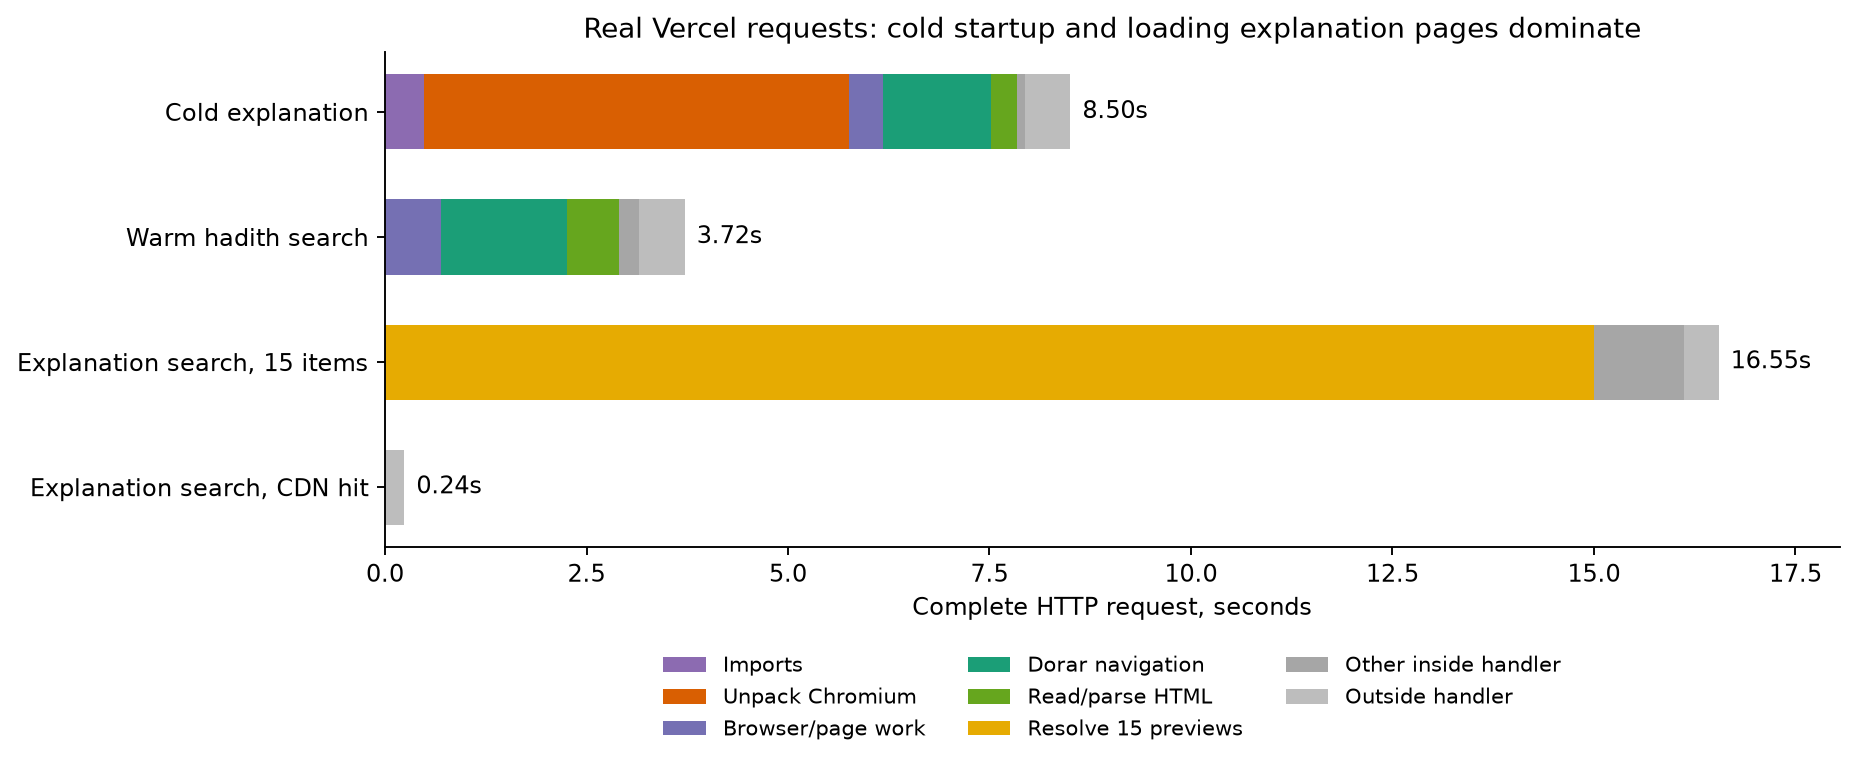
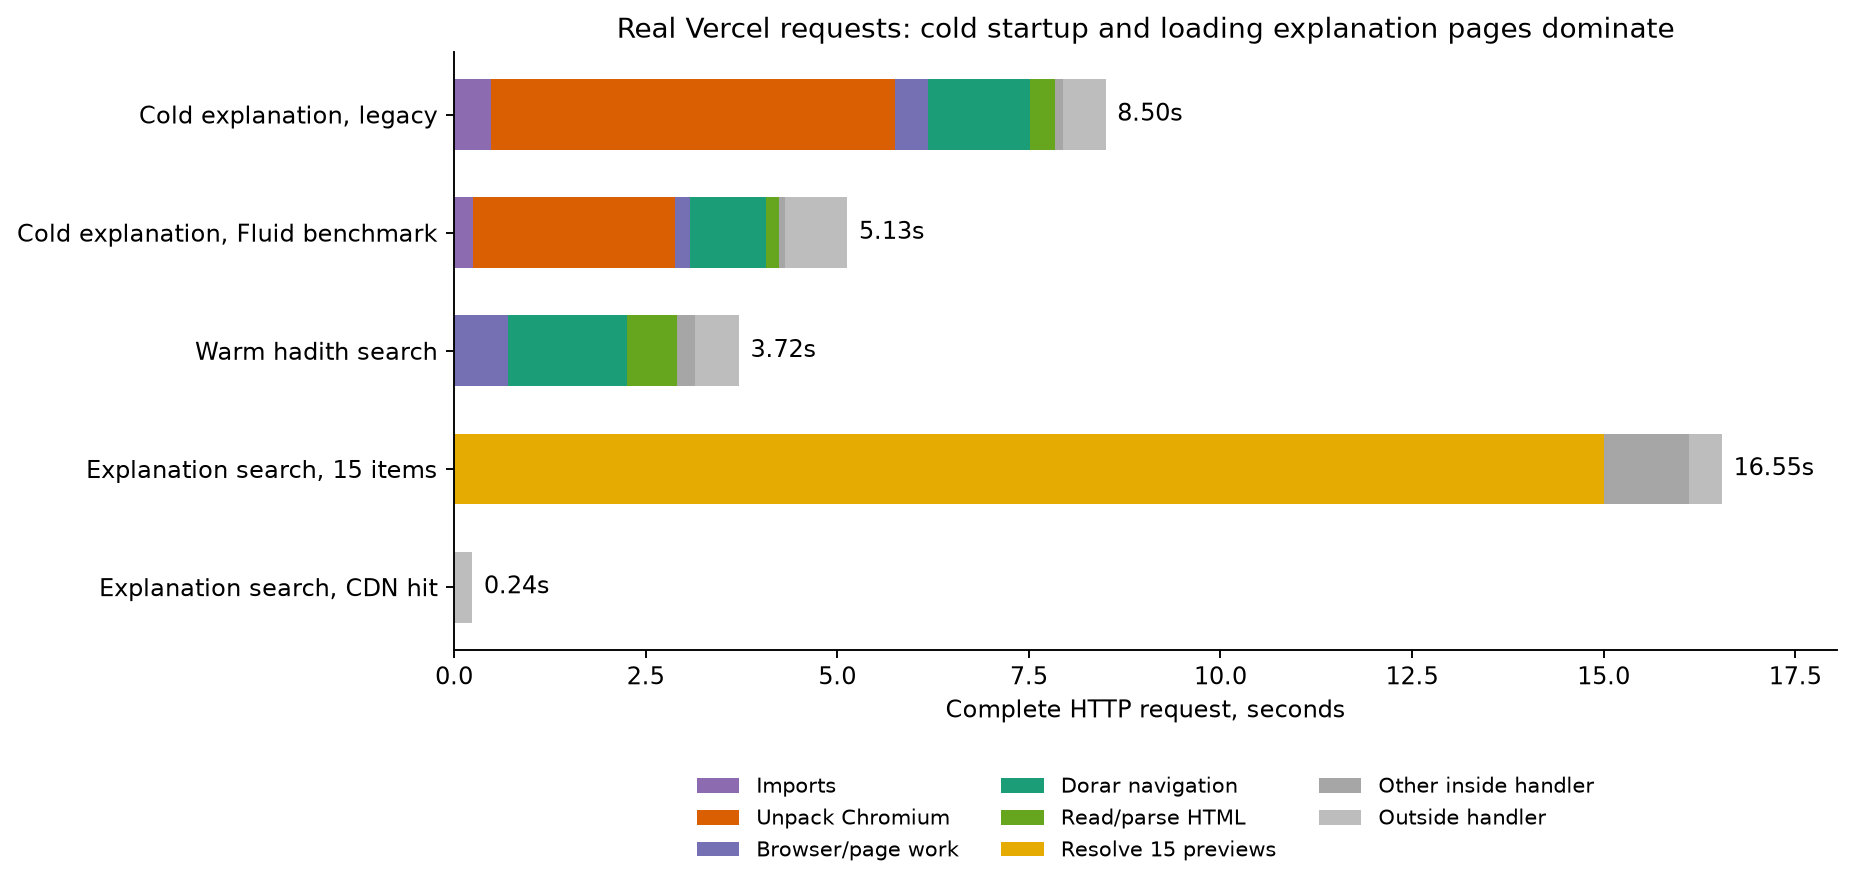
docs(perf): plot Fluid startup stages and record final verification

diff --git a/scripts/plot-request-duration.py b/scripts/plot-request-duration.py
@@ -10,7 +10,11 @@ data = json.loads((folder / 'measurements.json').read_text())
 rows = data['http-after-sharh-layout-fix']['results']
 selected = [next(r for r in rows if r['name'] == name) for name in
             ['first explanation', 'search fresh', 'sharh search fresh', 'sharh search CDN']]
-labels = ['Cold explanation', 'Warm hadith search', 'Explanation search, 15 items', 'Explanation search, CDN hit']
+labels = ['Cold explanation, legacy', 'Warm hadith search', 'Explanation search, 15 items', 'Explanation search, CDN hit']
+fluid = data['fluid-preview']
+cold = fluid['coldService']['result']
+selected.insert(1, {'wire': fluid['coldWire'], 'stages': cold['stages'] + [{'name': 'server', 'ms': cold['responseReadyMs']}]})
+labels.insert(1, 'Cold explanation, Fluid benchmark')
 parts = ['Imports', 'Unpack Chromium', 'Browser/page work', 'Dorar navigation', 'Read/parse HTML', 'Resolve 15 previews', 'Other inside handler', 'Outside handler']
 colors = ['#8c6bb1', '#d95f02', '#7570b3', '#1b9e77', '#66a61e', '#e6ab02', '#a6a6a6', '#bdbdbd']
 values = []
@@ -29,7 +33,7 @@ for row in selected:
     assert min(components) >= -0.01
     values.append([max(0, x) for x in components])
 
-fig, ax = plt.subplots(figsize=(11, 4.8))
+fig, ax = plt.subplots(figsize=(11, 5.5))
 left = [0.0] * len(values)
 for i, (part, color) in enumerate(zip(parts, colors)):
     widths = [v[i] for v in values]

diff --git a/docs/performance/2026-10-08.md b/docs/performance/2026-10-08.md
@@ -134,7 +134,7 @@ Production deployed application commit `3abab4d182a74b771280d5b3e498405c2300be53
 | sharh search CDN | 0.208 | HIT | 15 |
 | search HTML | 10.635 | MISS | 30 |
 
-The HTML variant also had a slow 10.63-second request. With production profiling disabled, its stages cannot be attributed. Normal JSON search was 2.76 seconds in this sequence. `/__benchmark` returned 404; an empty search returned 400. Both errors had no CDN cache header or timing header.
+A fresh advice search after the later documentation deployment also returned 30 valid results in 10.68 seconds. The HTML variant had a slow 10.63-second request. With production profiling disabled, its stages cannot be attributed. Normal JSON search was 2.76 seconds in this sequence. `/__benchmark` returned 404; an empty search returned 400. Both errors had no CDN cache header or timing header.
 
 The app uses 24 seconds for searches and similar results, but eight seconds for explanation/details calls. The measured nine-second cold request still exceeds that short limit. Raising the client limit handles this measured cold case but does not make the server faster. Explanation-search pagination also needs the mobile change described above.
 
@@ -145,3 +145,10 @@ The app uses 24 seconds for searches and similar results, but eight seconds for 
 - `a90808e` perf(dorar): reuse browsers and share concurrent upstream work
 - `ac9b83f` fix(dorar): resolve the current explanation search layout
 - `3abab4d` test(perf): record Vercel timings and repeatable comparisons
+
+Later documentation commits:
+
+- `26815c7` docs(perf): add production timings and remaining client limits
+- `da55e95` docs(perf): compare Fluid cold starts and free CPU allowance
+
+Application code remains the version validated at `3abab4d`.
